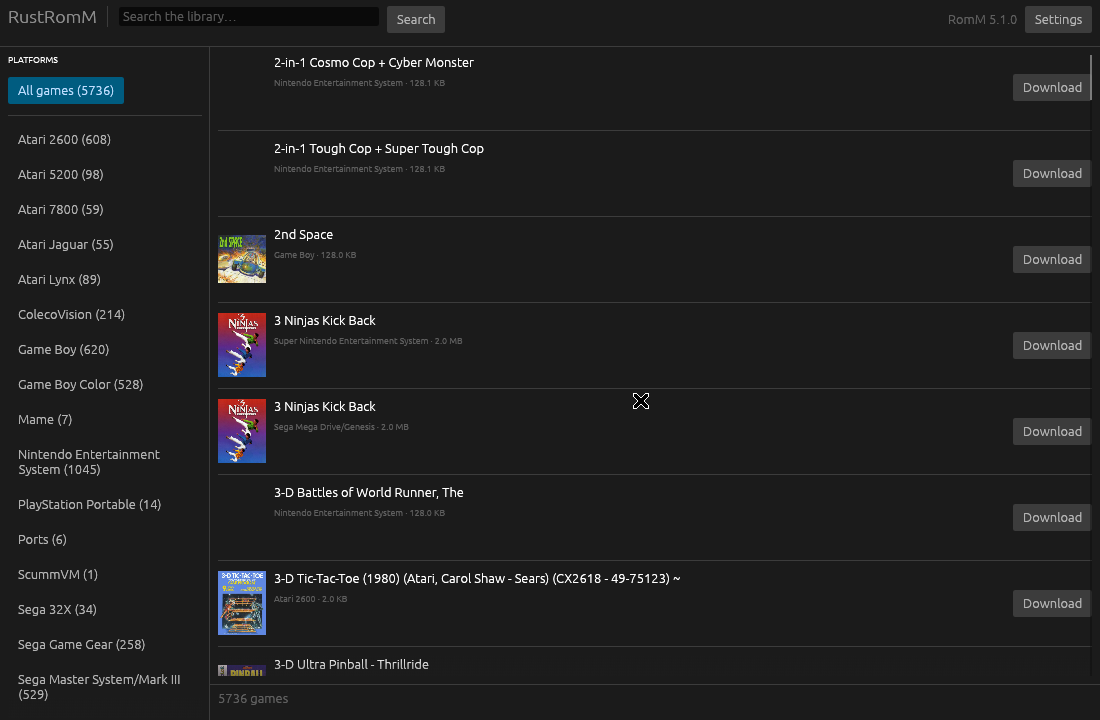
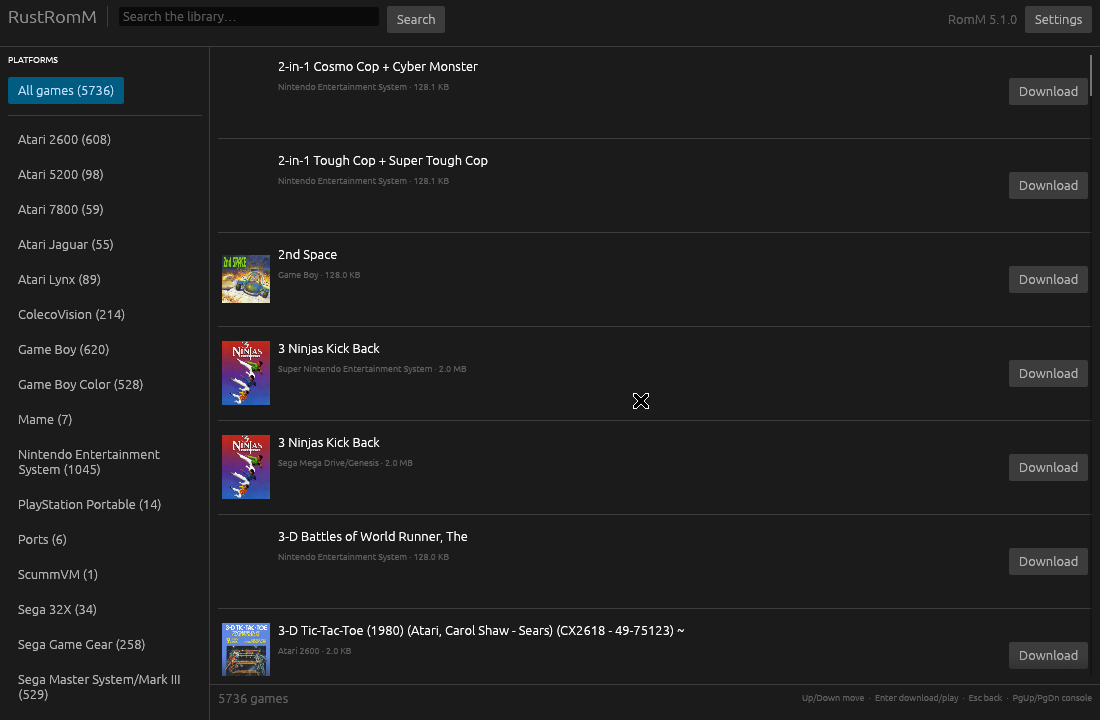
Use characters the bundled font can actually draw
A screenshot of the running app showed the control hints as "□□ move" — egui's
default font has no arrow glyphs, so they rendered as tofu boxes. The same
applies to the ▶ and ‹ › used on the Play and pagination buttons.

Replaced with plain words. Also refreshes the README screenshot, which now
shows the control hints.

Claude-Session: https://claude.ai/code/session_01PBAPLjTLT3L5PRr2J3QnHa

diff --git a/src/app.rs b/src/app.rs
@@ -765,9 +765,9 @@ impl RustRomm {
                 // once one is plugged in — otherwise it's noise for mouse users.
                 ui.with_layout(egui::Layout::right_to_left(egui::Align::Center), |ui| {
                     let hint = if self.gamepads.any_connected() {
-                        "D-pad move · A download/play · B back · LB/RB console"
+                        "D-pad move  ·  A download/play  ·  B back  ·  LB/RB console"
                     } else {
-                        "↑↓ move · Enter download/play · Esc back · PgUp/PgDn console"
+                        "Up/Down move  ·  Enter download/play  ·  Esc back  ·  PgUp/PgDn console"
                     };
                     ui.label(egui::RichText::new(hint).weak().small());
                 });
@@ -878,7 +878,7 @@ impl RustRomm {
                                 |ui| match dl {
                                     Some(d) if d.finished.is_some() => {
                                         let path = d.finished.clone().unwrap();
-                                        if ui.button("▶ Play").clicked() {
+                                        if ui.button("Play").clicked() {
                                             to_launch = Some((rom.clone(), path.clone()));
                                         }
                                         if ui.button("Folder").clicked() {
@@ -925,7 +925,7 @@ impl RustRomm {
                     let page = self.offset / PAGE_SIZE + 1;
                     let pages = (self.total_roms + PAGE_SIZE - 1) / PAGE_SIZE;
                     if ui
-                        .add_enabled(self.offset > 0, egui::Button::new("‹ Previous"))
+                        .add_enabled(self.offset > 0, egui::Button::new("Previous"))
                         .clicked()
                     {
                         want_fetch = Some((self.offset - PAGE_SIZE).max(0));
@@ -934,7 +934,7 @@ impl RustRomm {
                     if ui
                         .add_enabled(
                             self.offset + PAGE_SIZE < self.total_roms,
-                            egui::Button::new("Next ›"),
+                            egui::Button::new("Next"),
                         )
                         .clicked()
                     {
@@ -977,7 +977,7 @@ impl RustRomm {
         let mut save_now = false;
         egui::CentralPanel::default_margins().show(root, |ui| {
             ui.horizontal(|ui| {
-                if ui.button("‹ Back").clicked() {
+                if ui.button("Back").clicked() {
                     self.screen = Screen::Library;
                 }
                 ui.heading("Settings");
